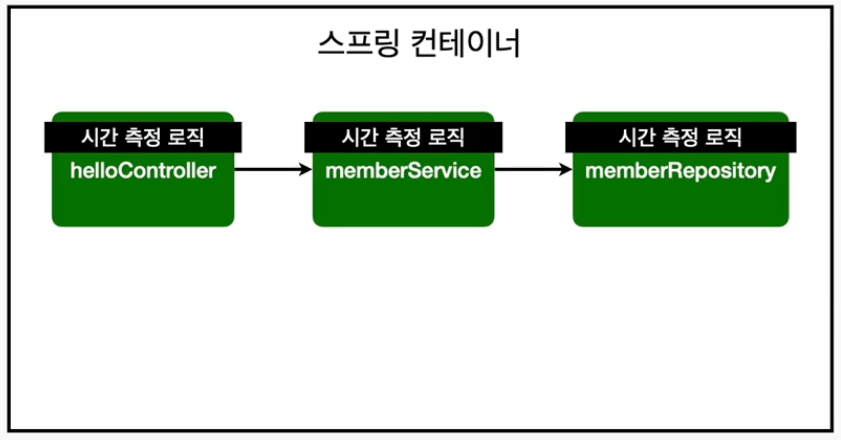
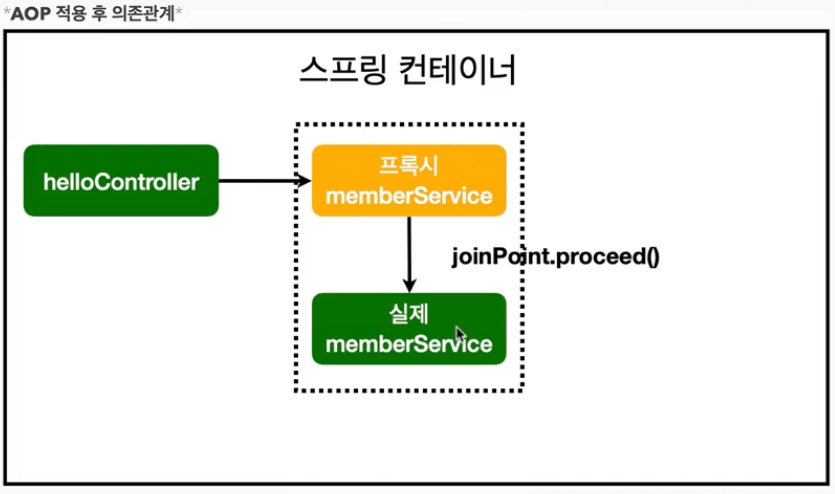
AOP 적용

Changed region(s): [[0.0, 0.0, 0.9964, 1.0]]

diff --git a/src/main/java/hello/hellospring/aop/TimeTraceAop.java b/src/main/java/hello/hellospring/aop/TimeTraceAop.java
@@ -1,0 +1,27 @@
+package hello.hellospring.aop;
+
+import org.aspectj.lang.ProceedingJoinPoint;
+import org.aspectj.lang.annotation.Around;
+import org.aspectj.lang.annotation.Aspect;
+import org.springframework.stereotype.Component;
+
+@Aspect
+@Component
+public class TimeTraceAop {
+
+    @Around("execution(* hello.hellospring..*(..))") // 패키지 하위에 다 적용하겠다는 의미
+    public Object execute(ProceedingJoinPoint joinPoint) throws Throwable {
+
+        long start = System.currentTimeMillis();
+        System.out.println("START: " + joinPoint.toString());
+        try {
+            // 다음 메소드로 진행
+            return joinPoint.proceed();
+        } finally {
+            long finish = System.currentTimeMillis();
+            long timeMs = finish - start;
+            System.out.println("END: " + joinPoint.toString() + " " + timeMs + "ms");
+
+        }
+    }
+}

diff --git a/src/main/java/hello/hellospring/service/MemberService.java b/src/main/java/hello/hellospring/service/MemberService.java
@@ -31,17 +31,9 @@ public class MemberService {
 //            throw new IllegalStateException("이미 존재하는 회원입니다.");
 //        });
 
-        long start = System.currentTimeMillis();
-
-        try {
             validateDuplicateMember(member);
             memberRepository.save(member);
             return member.getId();
-        } finally { // 예외가 떠도 시간을 찍어야 할때
-            long finish = System.currentTimeMillis();
-            long timeMs = finish - start;
-            System.out.println("join = " + timeMs + "ms");
-        }
 
         /**
          * 함수로 뽑아내는 단축키(리팩토링 기능) : control + T

diff --git a/src/main/java/hello/hellospring/controller/MemberController.java b/src/main/java/hello/hellospring/controller/MemberController.java
@@ -23,6 +23,7 @@ public class MemberController {
     @Autowired // 생성자에 Autowired 가 있으면 MemberService 를 스프링이 MemberController 와 연결 시켜준다 : 연관관계
     public MemberController(MemberService memberService) {
         this.memberService = memberService;
+        System.out.println("memberService = " + memberService.getClass());
     }
 
     @GetMapping("/members/new")

diff --git a/src/main/java/hello/hellospring/SpringConfig.java b/src/main/java/hello/hellospring/SpringConfig.java
@@ -1,6 +1,7 @@
 package hello.hellospring;
 
 
+import hello.hellospring.aop.TimeTraceAop;
 import hello.hellospring.repository.*;
 import hello.hellospring.service.MemberService;
 import org.springframework.beans.factory.annotation.Autowired;

diff --git a/summary/C7_AOP.md b/summary/C7_AOP.md
@@ -33,3 +33,67 @@ public class MemberService {
 
 
 ## AOP 적용
+
+메소드가 호출될때 마다 중간에서 인터셉터가 걸리는 것이다.
+
+> 해결
+- 회원가입, 회원 조회 등 핵심 관심사항과 시간을 측정하는 공통 관심 사항을 분리한다.
+- 시간을 측정하는 로직을 별도의 공통 로직으로 만들었다.
+- 핵심 관심 사항을 깔끔하게 유지할 수 있다.
+- 변경이 필요하면 이 로직만 변경하면 된다.
+- 원하는 적용대상을 선택할 수 있다.
+
+
+- 스프링 빈에 직접 등록해줄때 2가지 방법이 있다.
+  - 스프링 빈에 직접 등록해주기
+  - @Component 어노테이션을 통해 컴포넌트 스캔되게 하기
+  
+```java
+@Configuration
+public class SpringConfig {
+
+    @Bean
+    public TimeTraceAop timeTraceAop() {
+        return new TimeTraceAop();
+    }
+}
+```
+
+```java
+@Aspect
+@Component
+public class TimeTraceAop {
+
+    @Around("execution(* hello.hellospring..*(..))") // 패키지 하위에 다 적용하겠다는 의미
+    public Object execute(ProceedingJoinPoint joinPoint) throws Throwable {
+
+        long start = System.currentTimeMillis();
+        System.out.println("START: " + joinPoint.toString());
+        try {
+            // 다음 메소드로 진행
+            return joinPoint.proceed();
+        } finally {
+            long finish = System.currentTimeMillis();
+            long timeMs = finish - start;
+            System.out.println("END: " + joinPoint.toString() + " " + timeMs + "ms");
+
+        }
+    }
+}
+```
+
+### 스프링의 AOP 동작 방법
+
+- AOP 적용 후 의존관계
+
+![img.png](aop1.png)
+
+- AOP가 있으면 스프링이 가짜 스프링 빈을 컨테이너에 넣어둔다.
+- helloController가 호출하는 건 진짜 memberService(진짜 스프링빈)가 아니라 ProxyMemberService(진짜 스프링빈)이다.
+- 가짜 스프링빈이 끝나면 jointPoint.preoceed() 이후에 진짜 스프링빈이 나온다.
+
+```
+memberService = class hello.hellospring.service.MemberService$$EnhancerBySpringCGLIB$$1f8182c0
+```
+
+![img.png](aop2.png)
